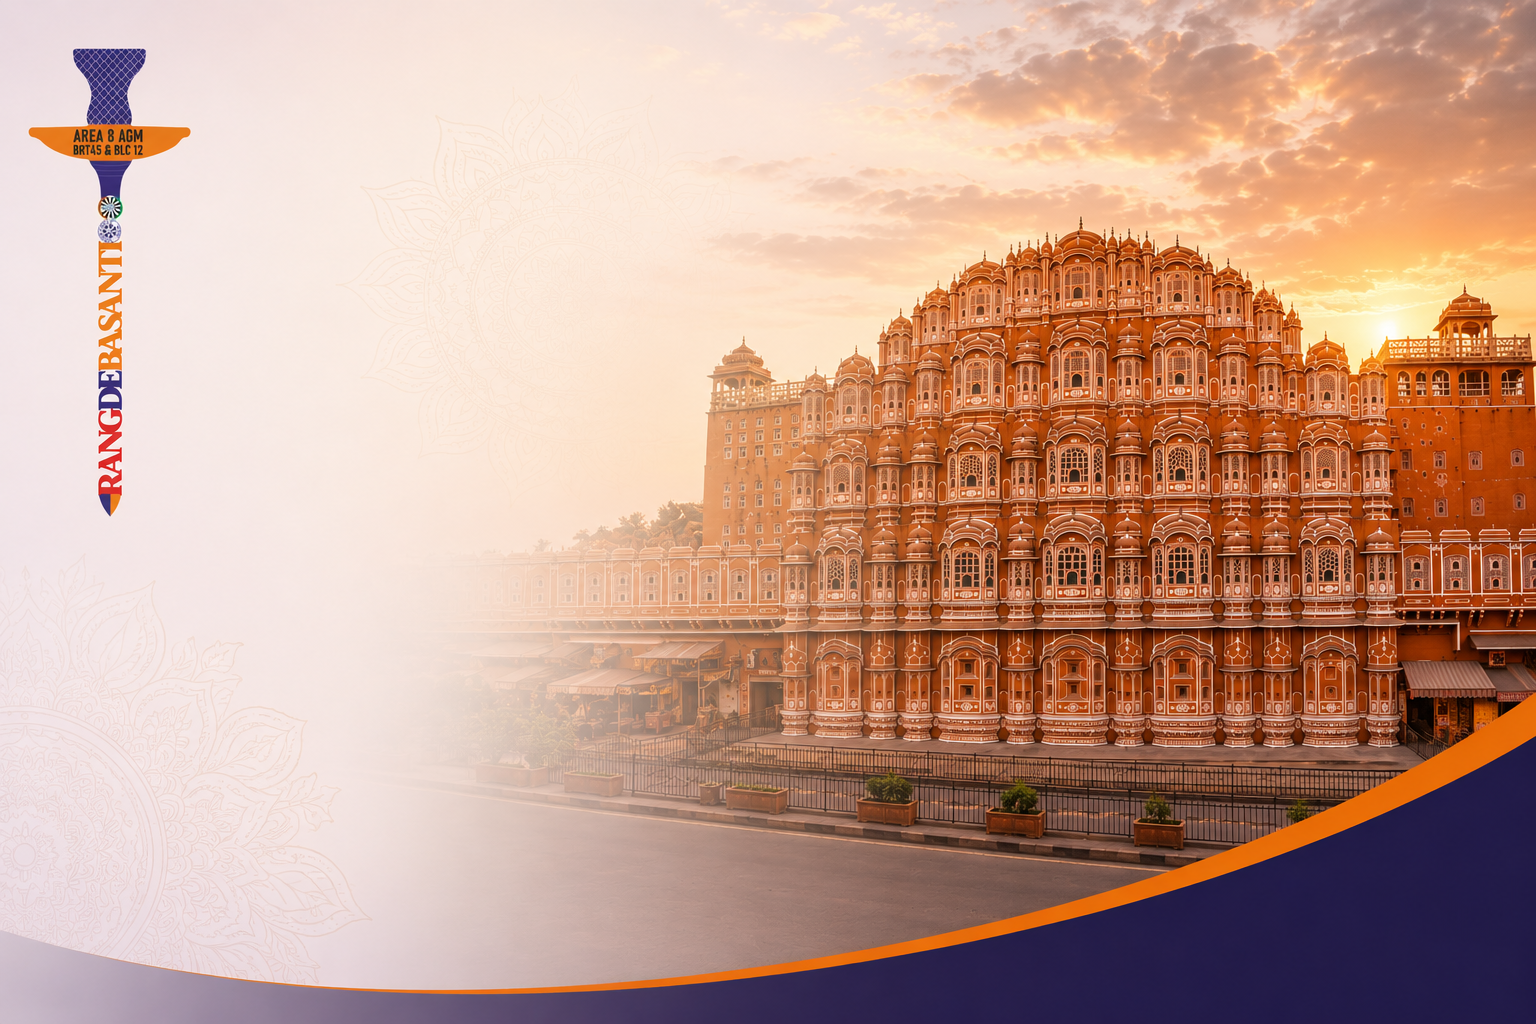
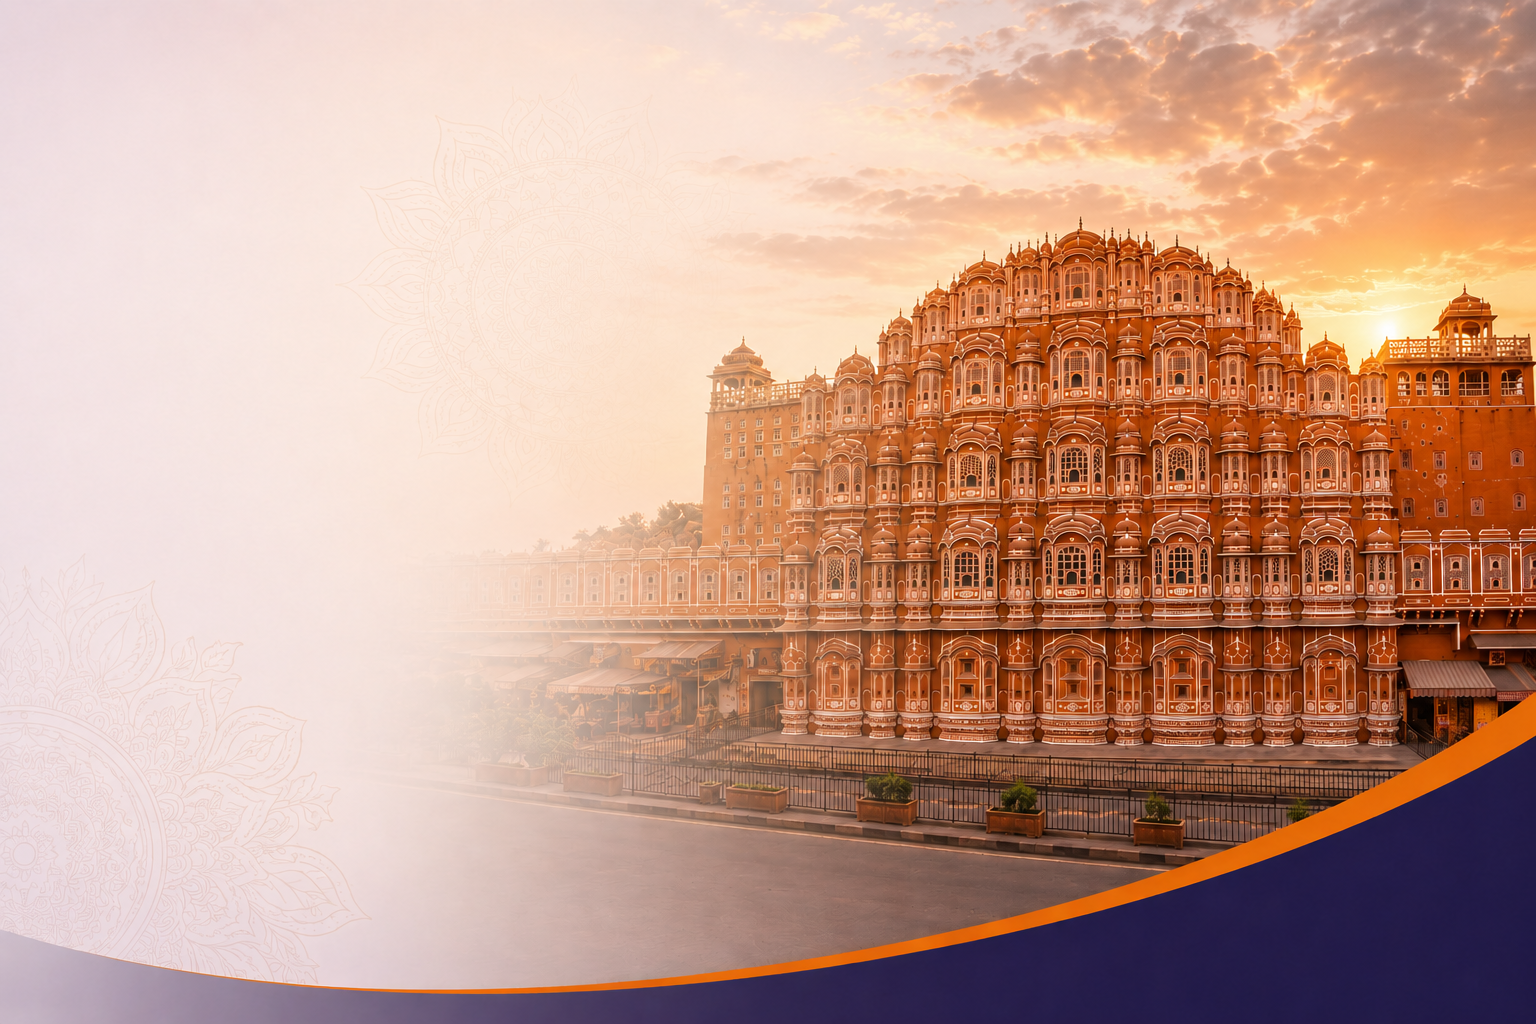
ok

Changed region(s): [[0.4062, 0.2188, 1.0, 0.875], [0.0, 0.0312, 0.125, 0.5], [0.4062, 0.7188, 0.4375, 0.75]]

diff --git a/public/index.html b/public/index.html
@@ -24,7 +24,7 @@
       work correctly both with client-side routing and a non-root public URL.
       Learn how to configure a non-root public URL by running `npm run build`.
     -->
-    <title>React App</title>
+    <title>AAGM</title>
   </head>
   <body>
     <noscript>You need to enable JavaScript to run this app.</noscript>

diff --git a/src/components/Home.css b/src/components/Home.css
@@ -257,7 +257,7 @@ body {
 
 @media (max-width: 768px) {
   .homeBanner {
-    padding: 180px 20px 80px;
+    padding: 50px 20px 80px;
   }
 
   .bannerLogo {

diff --git a/src/components/Home.js b/src/components/Home.js
@@ -180,7 +180,7 @@ const Home = () => {
         <div className="bannerOverlay"></div>
 
         <img
-          src="/logo.png"
+          src={require("../assets/round-logo.png")}
           alt=""
           className="bannerLogo"
         />